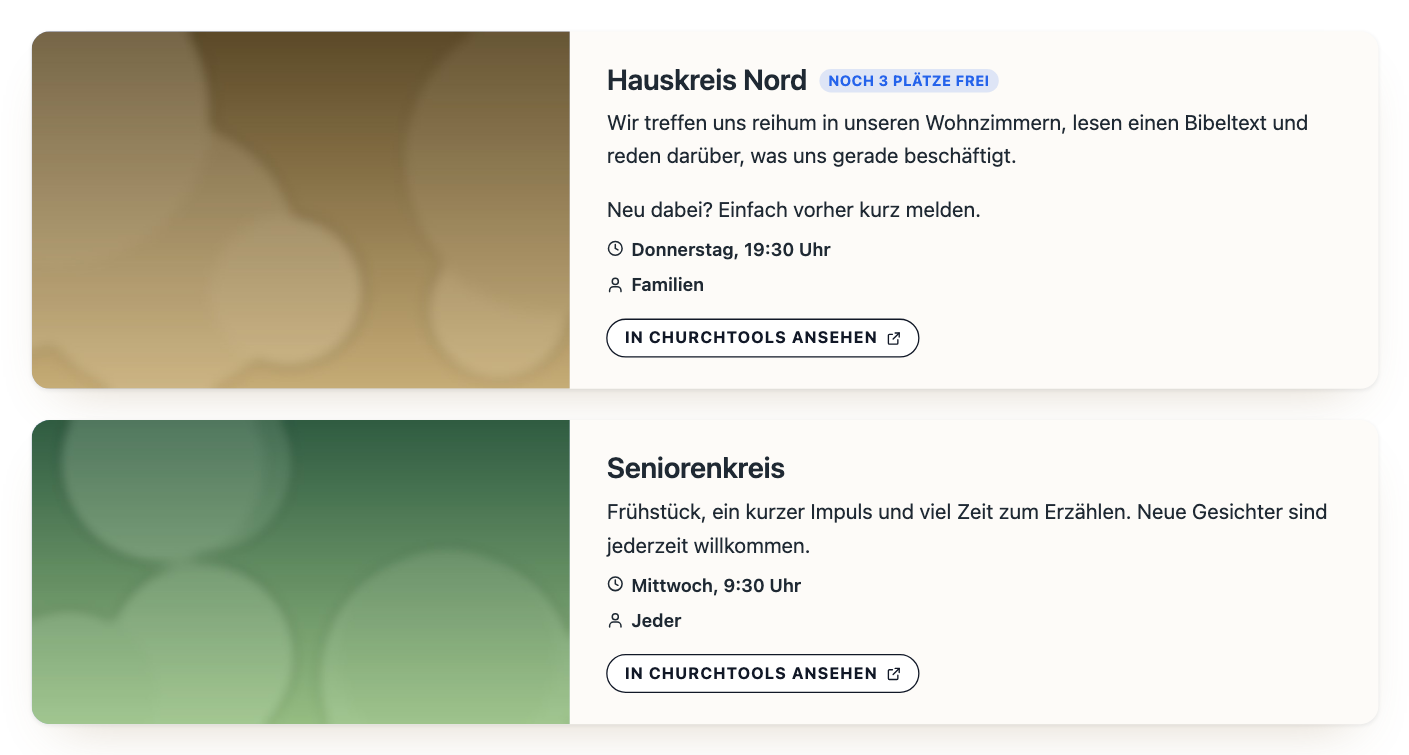
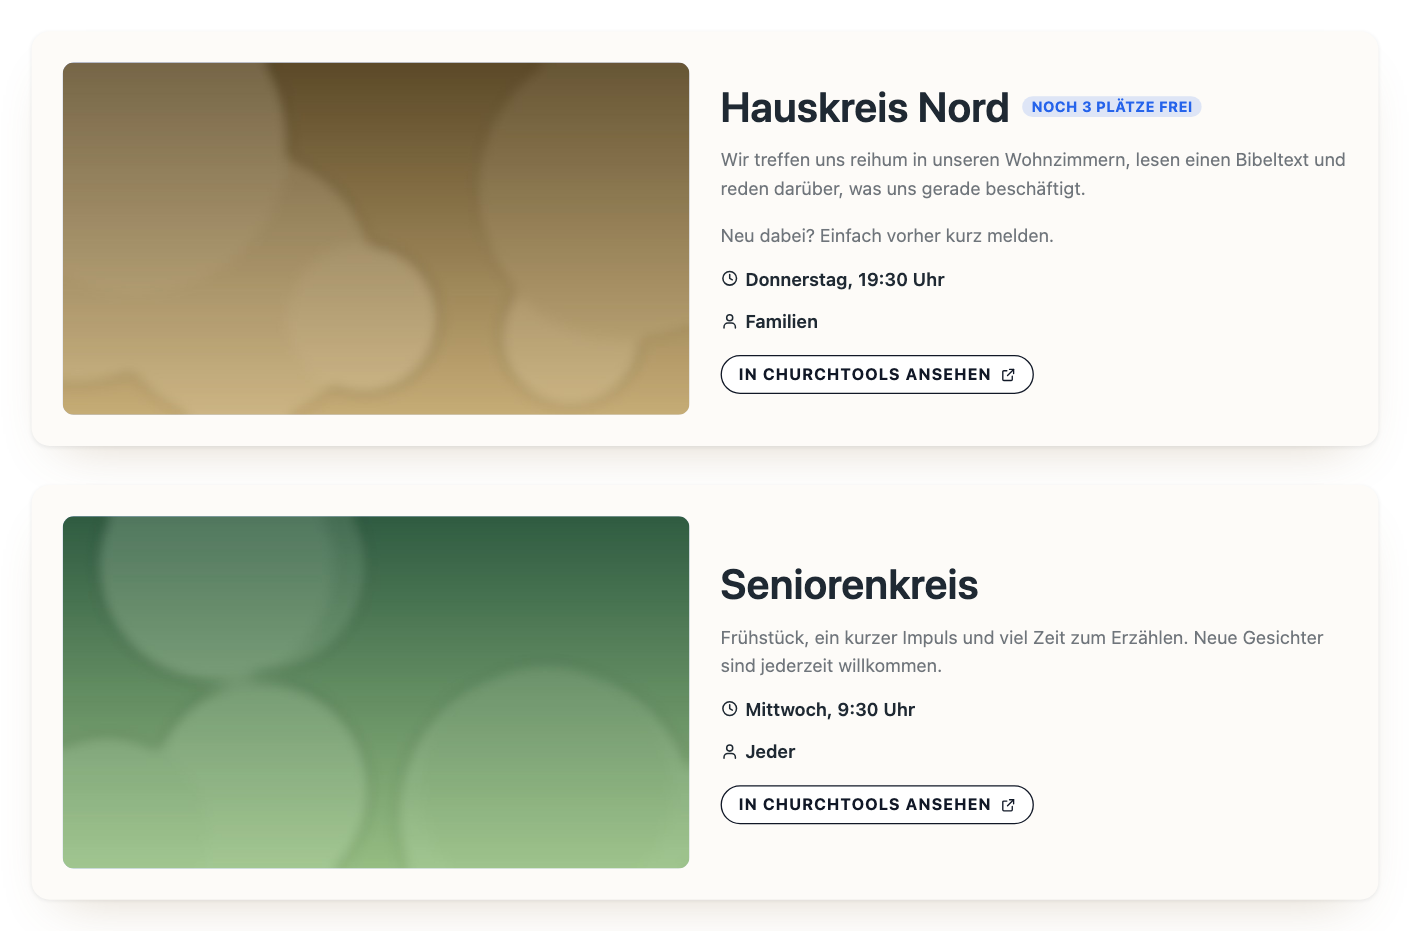
Hervorgehobene Gruppen im Aufbau der Hero-Kachel
Gleicher Innenabstand und dieselben Schriftgrade wie "Nächster Termin",
Bild mit eigener Rundung links, Bild und Text gleich breit.

diff --git a/assets/css/frontend.css b/assets/css/frontend.css
@@ -2839,33 +2839,72 @@
 
 .ctp-groups__features {
     display: grid;
-    gap: 1.5rem;
+    gap: var(--ctp-gap);
+}
+
+/*
+ * Dieselbe Kachel wie die Hero-Kachel von „Nächster Termin" (siehe
+ * .ctp-events--upcoming .ctp-events__hero): Innenabstand statt randlosem Bild,
+ * das Bild mit eigener Rundung, Text und Bild gleich breit, der Text senkrecht
+ * mittig daneben. Nur die Seite ist gespiegelt - das Bild steht hier links.
+ * Die Masse sind bewusst dieselben Zahlen, damit beide Bloecke auf einer Seite
+ * wie aus einem Guss aussehen (Nutzerwunsch 2026-09-18).
+ *
+ * `height: auto` und `overflow: visible` nehmen zurueck, was
+ * .ctp-events__card fuers Raster mitbringt: Dort muss eine Kachel ihre Zeile
+ * fuellen und das Bild an der Kante abschneiden, hier gibt es keine Zeile und
+ * das Bild beschneidet sich selbst.
+ */
+.ctp-events .ctp-groups__feature {
+    display: grid;
+    grid-template-columns: minmax(0, 1fr);
+    gap: 1.1rem;
+    height: auto;
+    padding: 1.25rem;
+    overflow: visible;
 }
 
 .ctp-groups__feature .ctp-events__media {
     order: 0;
+    overflow: hidden;
+    border-radius: calc(var(--ctp-radius) * 0.6);
 }
 
-.ctp-groups__feature-content {
+/* Der Innenabstand kommt von der Kachel, der Abstand zwischen den Angaben aus
+   dem gap - wie in .ctp-events__hero-body, mit derselben Begruendung: Der
+   Titel ist ein <h3> und bringt sonst die Abstaende des Themes mit. */
+.ctp-events .ctp-groups__feature-content {
     order: 1;
+    gap: 0.7rem;
+    padding: 0;
 }
 
+.ctp-events .ctp-groups__feature-content > * {
+    margin-block: 0;
+}
+
+/* Schriftgrad, Schnitt und Zeilenhoehe von .ctp-events__hero-title. */
 .ctp-events .ctp-groups__feature-title {
     display: flex;
     flex-wrap: wrap;
     align-items: center;
     gap: 0.4rem 0.6rem;
     margin: 0;
-    font-size: var(--ctp-font-xl, 1.5rem);
-    line-height: 1.25;
+    font-size: clamp(var(--ctp-font-xl), 1rem + 1.4vw, var(--ctp-font-2xl));
+    font-weight: 600;
+    line-height: 1.15;
 }
 
 /* Die Stelle des Auszugs in der Design-Reihenfolge: Die Felder der Kachel
    sortieren sich ueber --ctp-order-*, und ohne eigene Angabe stand der Text
-   mit `order: 0` ueber dem Titel (so im ersten Anlauf gesehen). */
+   mit `order: 0` ueber dem Titel (so im ersten Anlauf gesehen).
+   Farbe und Schriftgrad wie der Auszug in der Hero-Kachel
+   (.ctp-events__excerpt); die Zeilenhoehe eine Spur weiter, weil hier der
+   ganze Text mit Absaetzen steht und nicht drei Zeilen. */
 .ctp-groups__feature-text {
     order: var(--ctp-order-excerpt);
-    color: var(--ctp-color-text, inherit);
+    color: var(--ctp-color-muted);
+    font-size: var(--ctp-font-sm);
     line-height: 1.6;
     max-width: 42rem;
 }
@@ -2878,21 +2917,32 @@
     margin-block-end: 0;
 }
 
+/* Der Button folgt dem Text, statt an den Kachelboden zu rutschen: Der Text
+   steht senkrecht mittig, ein unten klebender Button risse ihn davon ab. */
+.ctp-groups__feature .ctp-events__cta-row {
+    margin-block-start: 0;
+    padding-block-start: 0.3rem;
+}
+
+/* 40rem Blockbreite statt 768px Fenster wie bei der Hero-Kachel - siehe oben,
+   warum hier der Container zaehlt. Abstaende ab dort wie dort ab 768px. */
 @container ctp-groups-featured (min-width: 40rem) {
-    .ctp-groups__feature:not(.ctp-groups__feature--no-media) {
-        display: grid;
-        grid-template-columns: minmax(0, 2fr) minmax(0, 3fr);
-        align-items: stretch;
+    .ctp-events .ctp-groups__feature {
+        gap: 1.5rem;
+        padding: 1.5rem;
     }
 
-    /* Neben dem Text fuellt das Bild die Hoehe der Kachel, statt oben mit
-       seinem Seitenverhaeltnis zu stehen und darunter eine Luecke zu lassen. */
-    .ctp-groups__feature:not(.ctp-groups__feature--no-media) .ctp-events__media {
-        aspect-ratio: auto;
-        min-height: 100%;
+    .ctp-events .ctp-groups__feature:not(.ctp-groups__feature--no-media) {
+        grid-template-columns: minmax(0, 1fr) minmax(0, 1fr);
     }
 
-    .ctp-groups__feature .ctp-groups__feature-content {
-        padding: 1.5rem 1.75rem;
+    /* Das Bild behaelt sein Seitenverhaeltnis und steht oben, der Text daneben
+       mittig - wie Angaben und Bild in der Hero-Kachel. */
+    .ctp-groups__feature .ctp-events__media {
+        align-self: start;
+    }
+
+    .ctp-events .ctp-groups__feature .ctp-groups__feature-content {
+        align-self: center;
     }
 }
